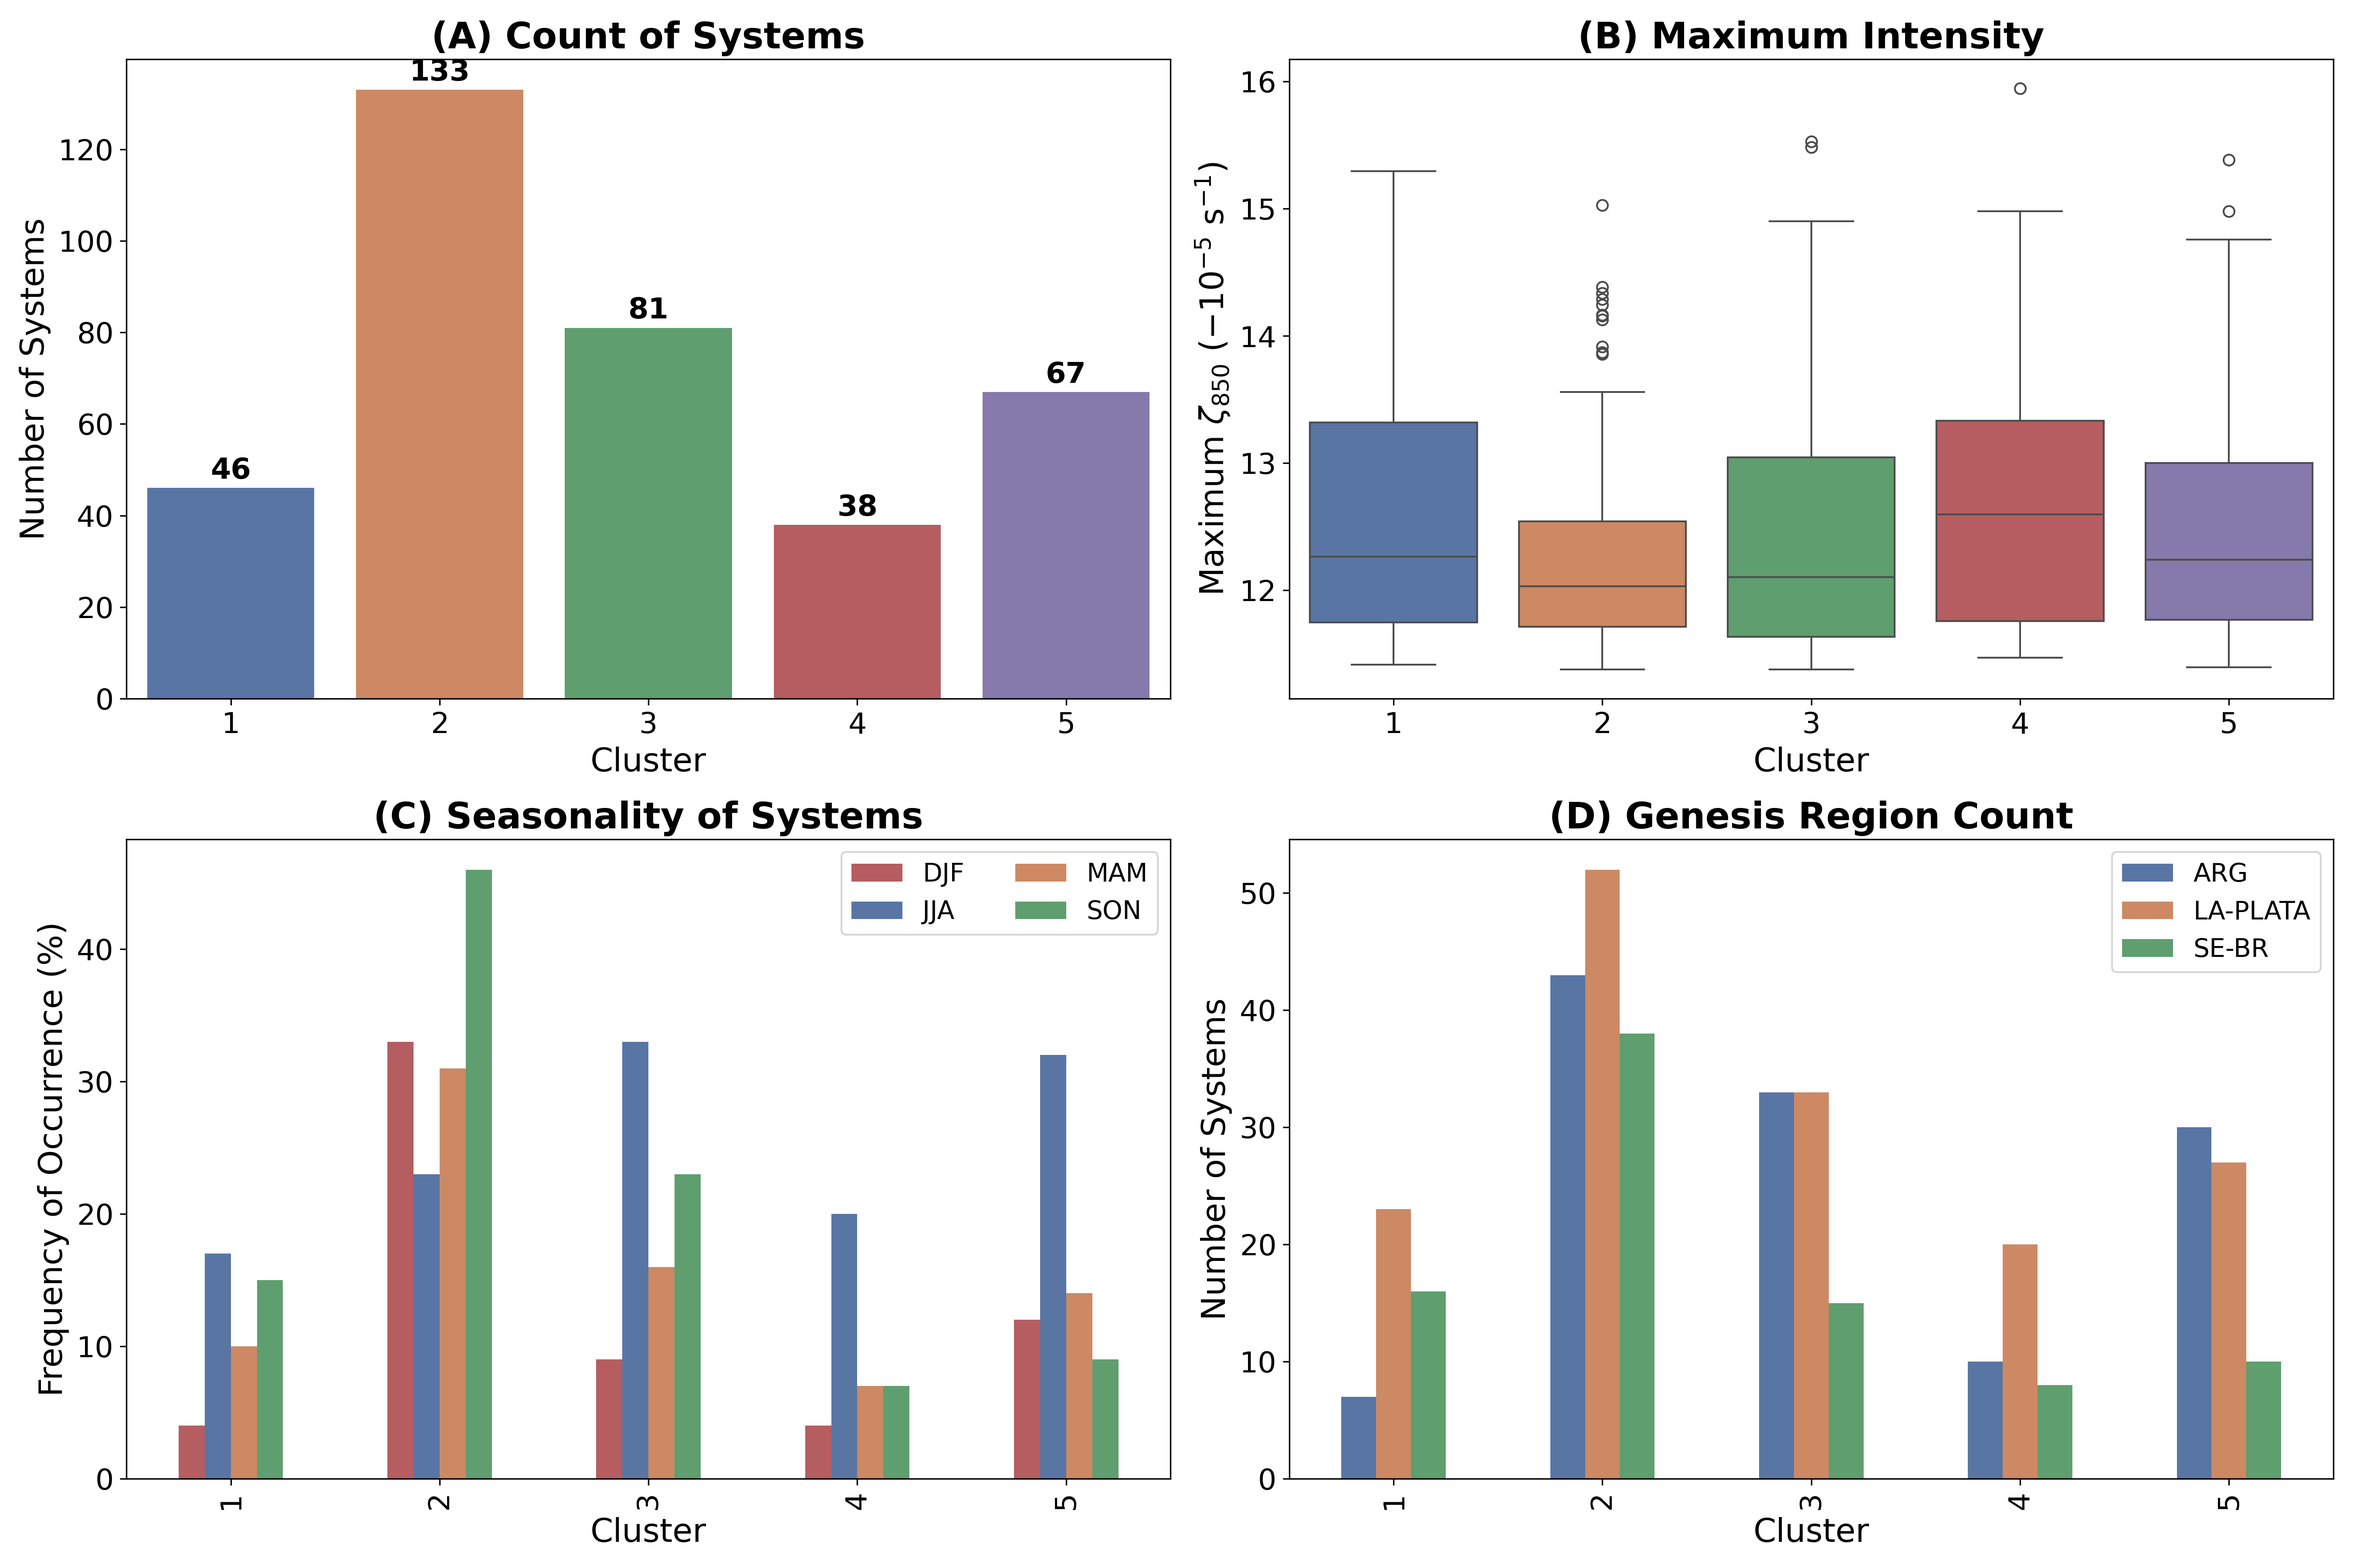
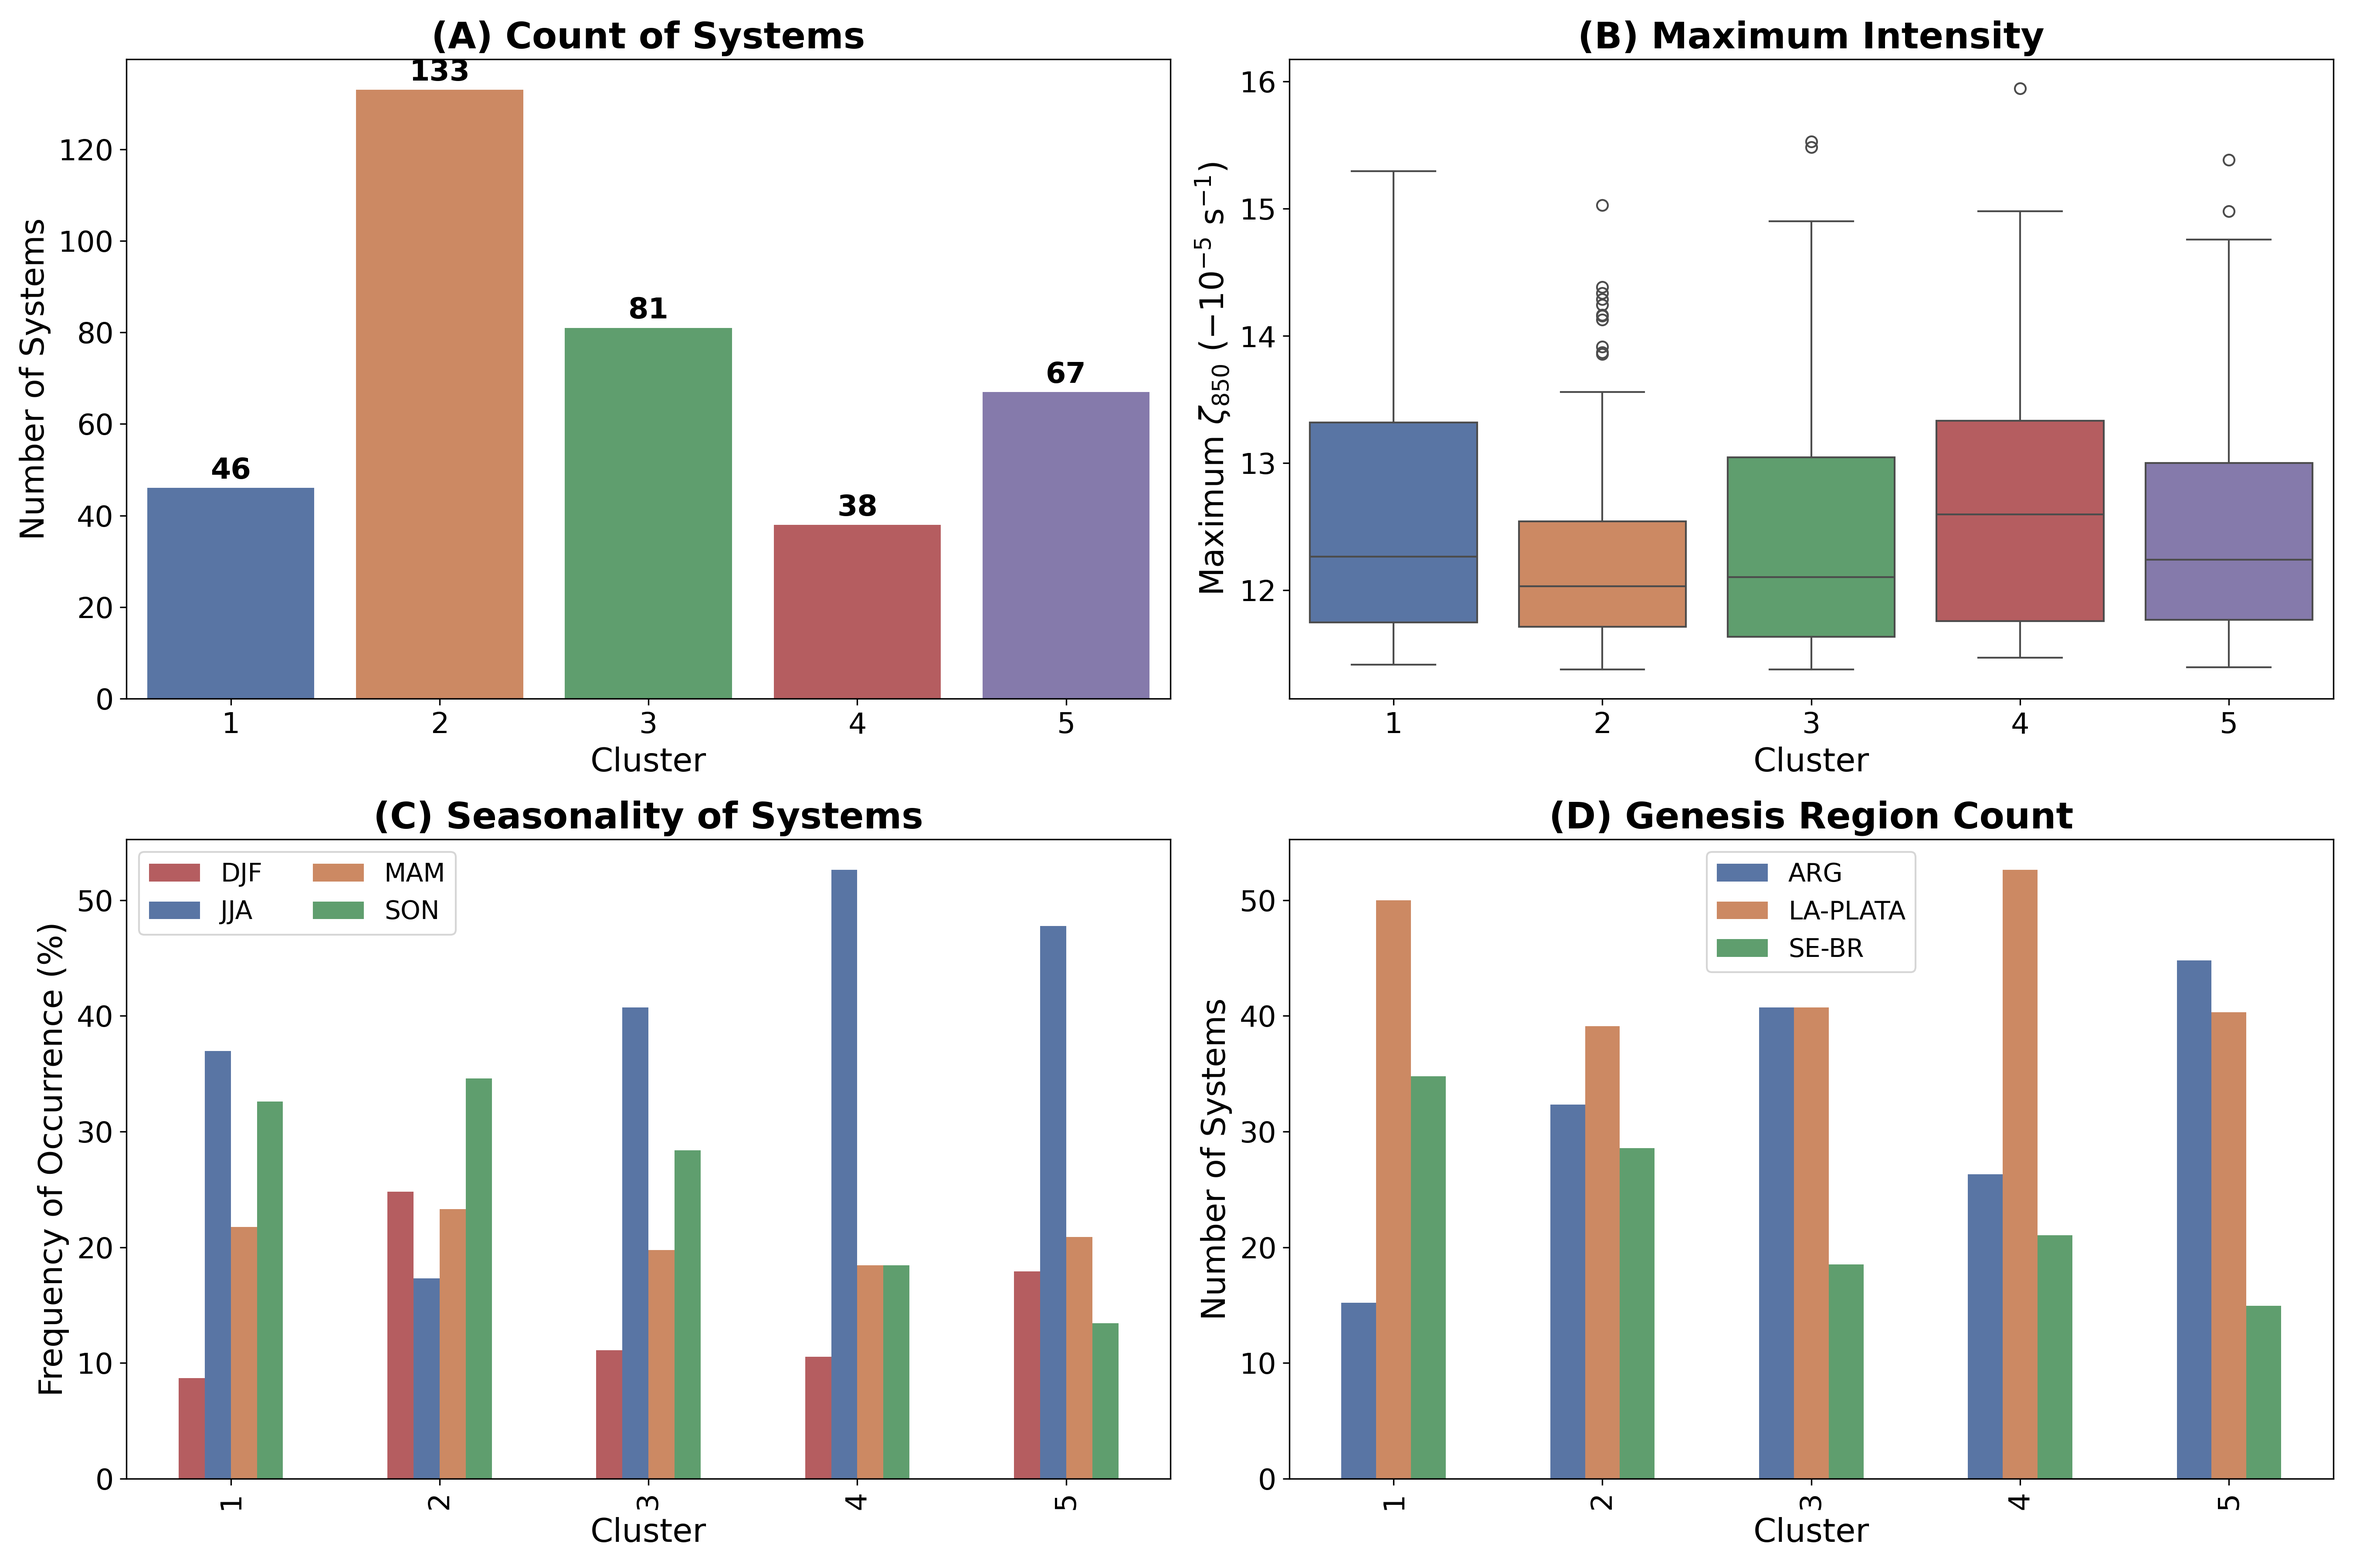
Updated to proportion per cluster

diff --git a/manuscript_lec_climatology/eof_cluster_statistics.py b/manuscript_lec_climatology/eof_cluster_statistics.py
@@ -64,11 +64,20 @@ cluster_counts = clusters_df['cluster'].value_counts().sort_index()
 # Contagem sazonal por cluster
 seasonal_counts = clusters_seasonality_df.groupby(['cluster', 'season']).size().unstack(fill_value=0)
 
+# Normalizar os valores para que cada cluster tenha 100% de distribuição entre as estações do ano
+seasonal_counts = seasonal_counts.div(seasonal_counts.sum(axis=1), axis=0) * 100
+
 # Contagem de sistemas por região de gênese para cada cluster
 genesis_counts = clusters_seasonality_df.groupby(['cluster', 'region']).size().unstack(fill_value=0)
 
+# Normalizar os valores para que cada cluster tenha 100% de distribuição entre as regiões de gênese
+genesis_counts = genesis_counts.div(genesis_counts.sum(axis=1), axis=0) * 100
+
 # Criar DataFrame com a contagem de ciclones por estação e região de gênese para cada cluster
 seasonal_genesis_counts = clusters_seasonality_df.groupby(['cluster', 'region', 'season']).size().unstack(fill_value=0)
+
+# Normalizar os valores para que cada cluster tenha 100% de distribuição entre as estações dentro de cada região de gênese
+seasonal_genesis_counts = seasonal_genesis_counts.div(seasonal_genesis_counts.sum(axis=1), axis=0) * 100
 
 # Intensidade máxima (vor42) dos sistemas por cluster
 intensity_df = filtered_tracks_df.groupby('track_id')['vor42'].max().reset_index()
